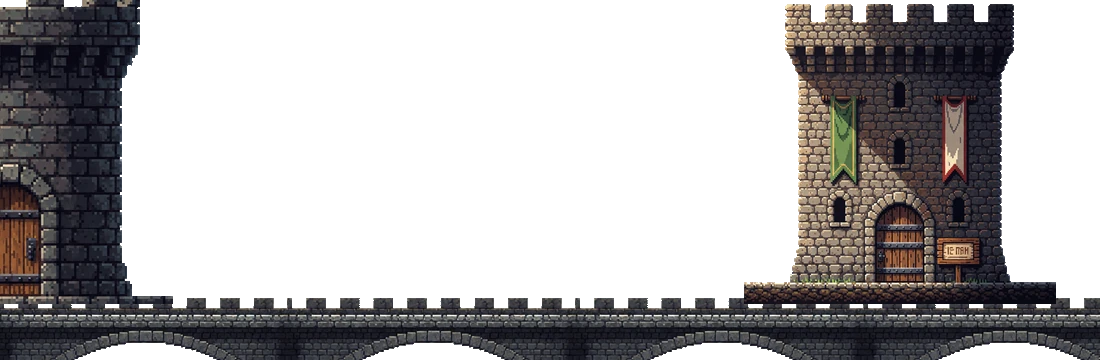
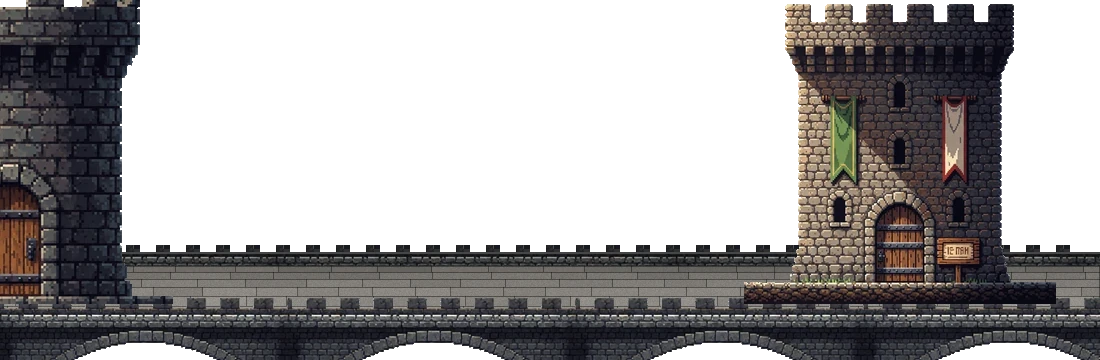
Night Watch: bridge gets a walkway deck and back parapet
Seo-yeon read as standing on the backdrop hills. A flagstone deck now runs
from y=266 to the floor line at 300 behind the front crenellations, with a
low back parapet, and the front crenellations are split into deck-front.webp
(speed 1) to draw over the walker's feet.

Claude-Session: https://claude.ai/code/session_01JTmPYBVW2aVCQqTmNfy428

Changed region(s): [[0.0, 0.6722, 1.0, 0.8556]]

diff --git a/game/tools/watch_art/castle/bridge_deck.py b/game/tools/watch_art/castle/bridge_deck.py
@@ -1,0 +1,37 @@
+# Bridge (Ladi, Nov 19): a walkable stone deck behind the front parapet, with a low back parapet, so the walker reads as
+# on the bridge and the hills sit beyond it. Drawn in code from the bridge's own stone. Writes street.webp (deck + bridge)
+# and deck-front.webp (the front crenellations, drawn over the walker's feet at speed 1). Floor line stays at y=300.
+import sys, numpy as np
+from PIL import Image
+D = 'assets/img/watch/floors/bridge/'
+st = np.asarray(Image.open(D + 'street.webp').convert('RGBA')).astype(float); H, W = st.shape[:2]
+src0 = st.copy()
+course = st[312:330, 300:700, :3]                       # two courses of the bridge's dressed stone
+def tile(h, w, img):
+    reps = (h // img.shape[0] + 1, w // img.shape[1] + 1, 1); return np.tile(img, reps)[:h, :w]
+deck = np.zeros((H, W, 4)); rng = np.random.default_rng(7)
+# deck surface y 266..312 (runs on behind the front parapet's gaps): pale flagstones seen edge-on, rows narrowing
+# towards the back, a thin mortar line between rows, lighter at the front
+top = np.array((150, 146, 140.)); rows = [266, 272, 279, 287, 296, 306, 312]
+for i in range(len(rows) - 1):
+    y0, y1 = rows[i], rows[i + 1]; lit = 0.72 + 0.06 * i
+    x = int(rng.integers(0, 40)) - 40
+    while x < W:
+        w = int(rng.integers(34, 62)); c = top * lit * rng.uniform(0.93, 1.05)
+        xa, xb = max(0, x), min(W, x + w)
+        if xb > xa: deck[y0:y1, xa:xb, :3] = c * rng.uniform(0.95, 1.05, (y1 - y0, xb - xa, 1)); deck[y0:y1, xa:xb, 3] = 255; deck[y0:y1, xb - 1:xb, :3] = c * 0.62
+        x += w
+    deck[y0, :, :3] *= 0.6
+# back parapet y 250..266: a low wall of the bridge's stone, dimmer (further away), with small merlons
+wall = tile(12, W, st[312:324, 300:700, :3]) * 0.6
+deck[254:266, :, :3] = wall; deck[254:266, :, 3] = 255
+deck[252:254, :, :3] = 70; deck[252:254, :, 3] = 255
+for x in range(6, W - 16, 30):
+    deck[245:252, x:x + 14, :3] = tile(7, 14, st[300:307, 352:366, :3]) * 0.58; deck[245:252, x:x + 14, 3] = 255
+# composite: the bridge (towers, front parapet, arches) over the deck
+a = st[..., 3:4] / 255; out = deck * (1 - a) + st * a; out[..., 3] = np.maximum(deck[..., 3], st[..., 3])
+# towers stand on the deck: don't let the deck show through between a tower's base and its ground
+Image.fromarray(out.clip(0, 255).astype(np.uint8), 'RGBA').save(D + 'street.webp', 'WEBP', quality=90, alpha_quality=100, method=6)
+fr = np.zeros_like(src0); band = slice(296, 314); fr[band] = src0[band]
+Image.fromarray(fr.astype(np.uint8), 'RGBA').save(D + 'deck-front.webp', 'WEBP', quality=90, alpha_quality=100, method=6)
+print('ok')

diff --git a/game/CREDITS.md b/game/CREDITS.md
@@ -138,6 +138,7 @@ Everything else is drawn in code: portraits for characters without a painted one
 | The Night Watch's dialogue portraits (`assets/img/watch/portraits/*.webp`): Seo-yeon, Mira, Kai, Dutch, Postmaster Coo, Bru, Kagemaru, Lexi, Grandma Wen, Ayo, Aigerim, Chad, Sir Seymour Backups, Old Hobb, Sergeant Pell, Tess, Doug, Hollis, Odu, Fennel, the Captain and the Hooded Stranger | Generated for this game with [Sogni](https://www.sogni.ai) on 2026-11-18 with Krea 2 Identity Edit (`krea2_identity_edit_v1_2`) on Ladi's Sogni Unlimited plan, each turned into a head-and-shoulders bust from that character's side-view render in `assets/img/watch/people` (and, where one exists, their portrait in `assets/img/portraits` as a second reference); one of two takes picked, cropped and converted to WebP; Seymour's closed visor edited the same way, and Kagemaru's wrists recoloured black in code. Chad's portrait (a young first-year MBA in a navy quarter zip) drawn fresh from a text prompt with Krea 2 Turbo (`krea2_turbo_fp8_scaled`), one of six takes picked. Prompts in `tools/watch_art/jobs/jobs-portrait.json` | Generated for this game; used under Sogni's terms for generated output | The Night Watch's dialogue box |
 | The Night Watch's HD castle floors (`assets/img/watch/floors/{ground,cellars,upper,towers}/wall-v2.webp`): the ground floor (gatehouse, great hall with its fireplace, post room), the brick-vaulted cellars, the upper floor and the tower top, painted 4096x512 (masters kept in the project files) and scaled to 2614x360 for the game, with stairs, a floor trapdoor and archway doorways with picture signs | Generated for this game with [Sogni](https://www.sogni.ai) on 2026-11-18 and 2026-11-19 on Ladi's Sogni Unlimited plan: an empty HD hall drawn with Krea 2 Turbo (`krea2_turbo_fp8_scaled`), then built up one feature per edit with Krea 2 Identity Edit (`krea2_identity_edit_v1_2`) in 2048-wide windows pasted back with feathered edges (`tools/watch_art/castle/winedit.py`); the eight doorway signs drawn with Krea 2 Turbo on white and cut out. The cellars were rebuilt in code from one clean vault bay of the Sogni render, and missing doorways were copied from another doorway on the same floor (`tools/watch_art/castle/cellars_tiles.py`, `compose2.py`, `towers_fix.py`; the towers' stair down was moved to the left end the same way in `towers_stair_left.py`). Every floor end's stairs (Ladi, Nov 19) are assembled by `tools/watch_art/castle/stairs_both.py` from the upper floor's Sogni stair and a Sogni archway with steps going down (its cut-off side completed by mirroring, `stair_b.py`); the locked-stair overlays (`assets/img/watch/floors/stair-block-{up,down}.webp`, a rope-and-plank barricade and a boarded-up arch) drawn with Krea 2 Turbo on white and cut out. Windows keyed to transparent by `tools/watch_art/castle/export_castle.py` | Generated for this game; used under Sogni's terms for generated output | The Night Watch's castle floors (`js/watch-art-castle.js`, `WATCH_ART_CASTLE`) |
 | The Night Watch's room popups (`assets/img/watch/rooms/*.webp`): the archive, strongroom, barracks, tavern, wardrobe, ledger room, bridge tower, watchtower, lookout and captain's quarters, each painted around the object a breach is fixed on | Generated for this game with [Sogni](https://www.sogni.ai) on 2026-11-19 with Krea 2 Turbo (`krea2_turbo_fp8_scaled`) on Ladi's Sogni Unlimited plan, from the prompts in `tools/watch_art/castle/rooms.py` (one take each); trimmed and resized to 1600x900 and converted to WebP by `tools/watch_art/castle/export_castle.py` | Generated for this game; used under Sogni's terms for generated output | The Night Watch's room popups (`js/watch-art-castle.js`, `WATCH_ART_CASTLE`) |
+| The Night Watch bridge's walkway (`assets/img/watch/floors/bridge/street.webp` deck and back parapet, `deck-front.webp`) | Drawn in code for this game on 2026-11-19 by `tools/watch_art/castle/bridge_deck.py` from the bridge's own Sogni-generated stone (see the parallax layers line above): flagstone deck rows and a low back parapet behind the existing bridge, and the front crenellations split into their own layer that draws over the walker's feet | Generated for this game; used under Sogni's terms for generated output | The Night Watch's bridge (`js/watch-art.js`) |
 
 ## Model
 
